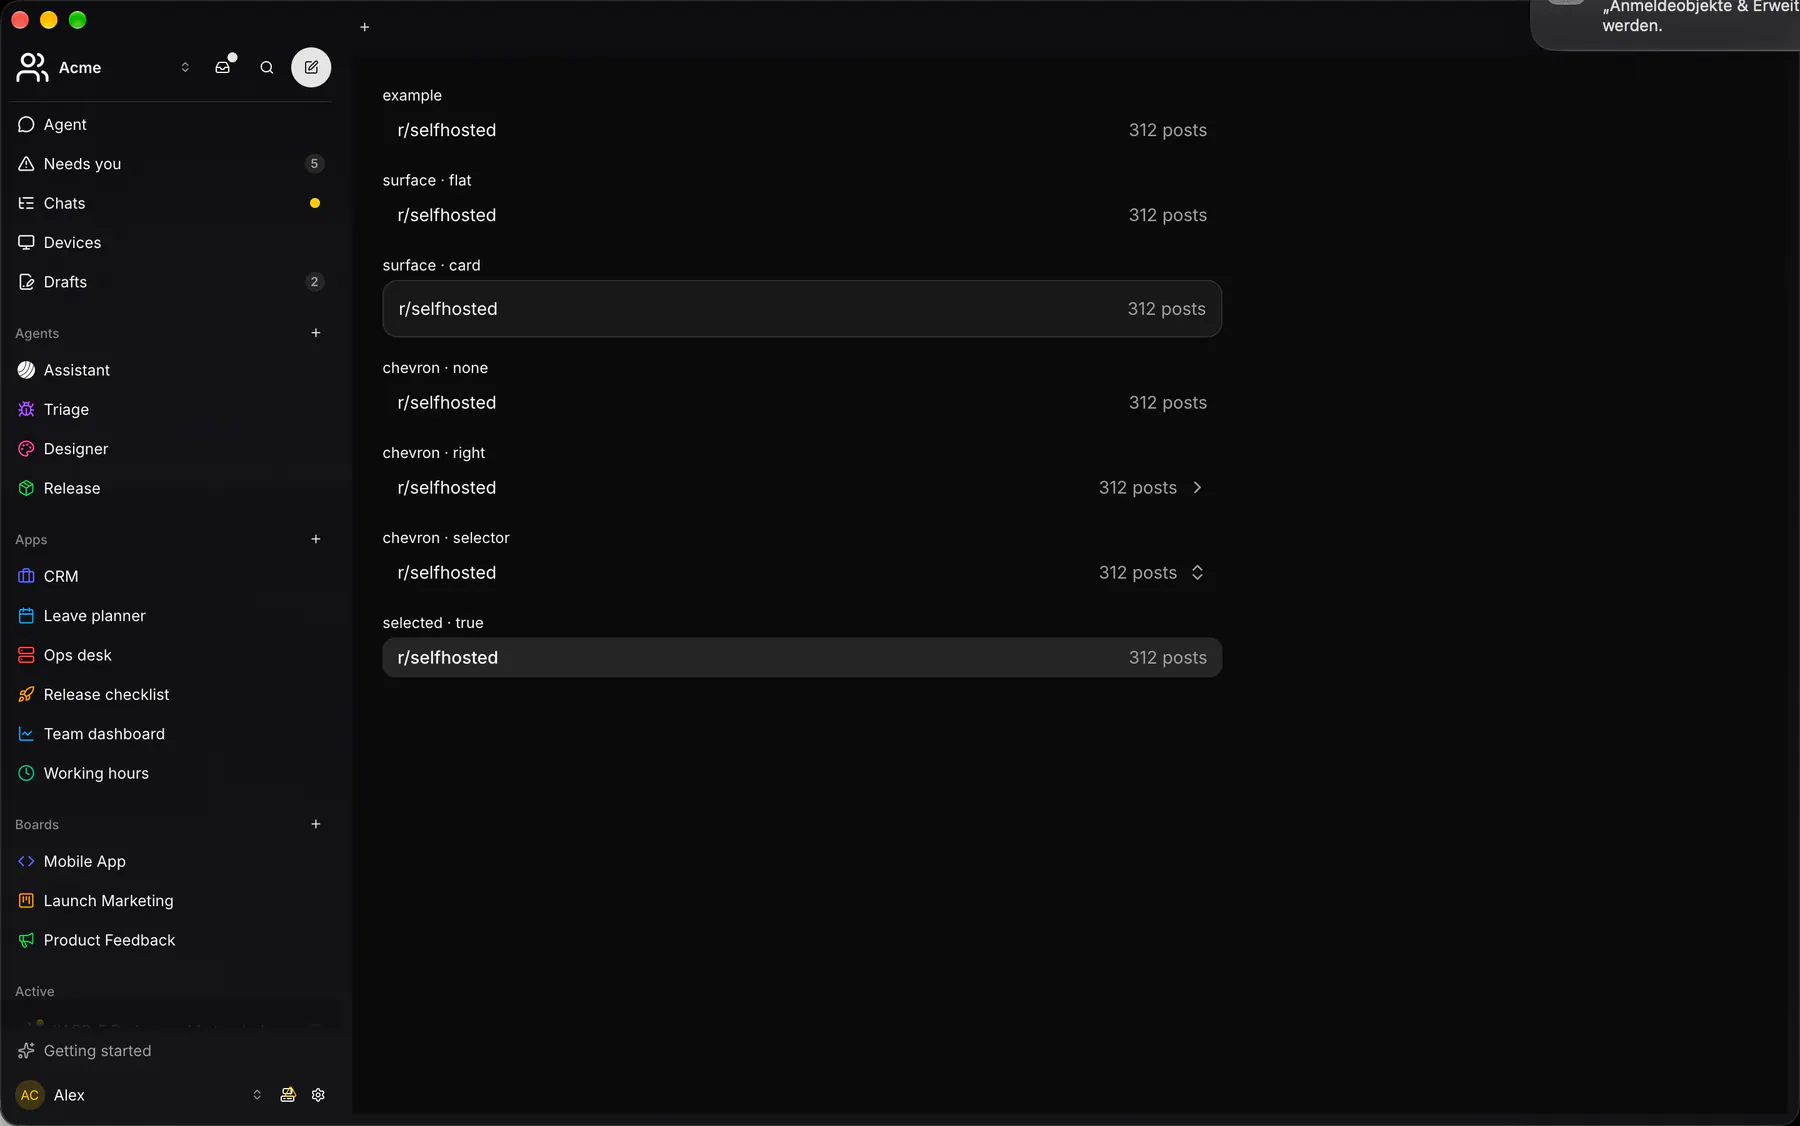
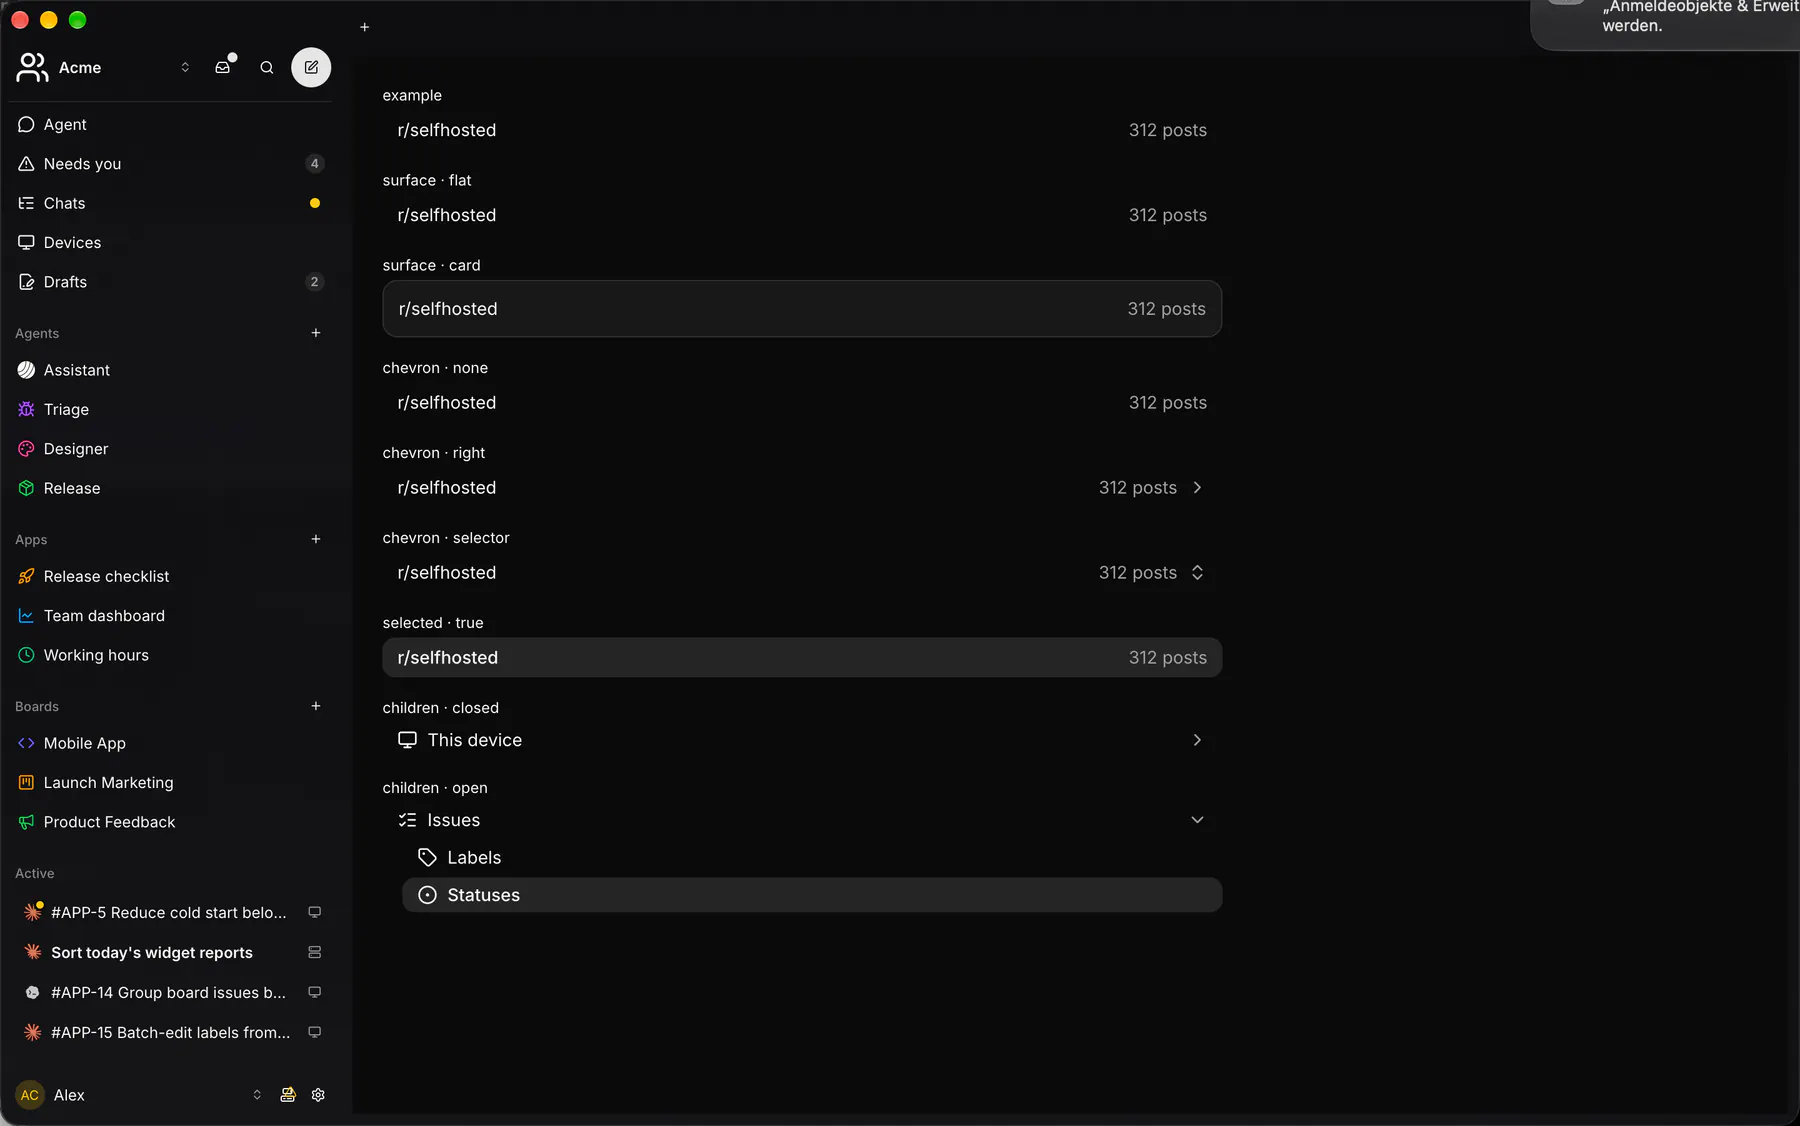
VAPP-284: Row shots ×desktop/iOS/Android (the foldable group closed + open), Compose example maps the settings group glyphs
The Compose example host lacked settings-issues / settings-labels /
settings-tools / ui-folder-open, so the fold specimen painted the
placeholder circle where web draws list-checks and tag.

diff --git a/packages/exponential-ui-compose/example/src/main/kotlin/at/exponential/ui/kitchensink/SinkIcons.kt b/packages/exponential-ui-compose/example/src/main/kotlin/at/exponential/ui/kitchensink/SinkIcons.kt
@@ -82,6 +82,7 @@ private val lFolder = outline("folder", "M20 20a2 2 0 0 0 2-2V8a2 2 0 0 0-2-2h-7
 private val lFolderGit2 = outline("folder-git-2", "M9 20H4a2 2 0 0 1-2-2V5a2 2 0 0 1 2-2h3.9a2 2 0 0 1 1.69.9l.81 1.2a2 2 0 0 0 1.67.9H20a2 2 0 0 1 2 2v5", "M11 12A2 2 0 1 0 15 12A2 2 0 1 0 11 12Z", "M18 19c-2.8 0-5-2.2-5-5v8", "M18 19A2 2 0 1 0 22 19A2 2 0 1 0 18 19Z")
 private val lFolderInput = outline("folder-input", "M2 9V5a2 2 0 0 1 2-2h3.9a2 2 0 0 1 1.69.9l.81 1.2a2 2 0 0 0 1.67.9H20a2 2 0 0 1 2 2v10a2 2 0 0 1-2 2H4a2 2 0 0 1-2-2v-1", "M2 13h10", "m9 16 3-3-3-3")
 private val lFolderKanban = outline("folder-kanban", "M4 20h16a2 2 0 0 0 2-2V8a2 2 0 0 0-2-2h-7.93a2 2 0 0 1-1.66-.9l-.82-1.2A2 2 0 0 0 7.93 3H4a2 2 0 0 0-2 2v13c0 1.1.9 2 2 2Z", "M8 10v4", "M12 10v2", "M16 10v6")
+private val lFolderOpen = outline("folder-open", "m6 14 1.5-2.9A2 2 0 0 1 9.24 10H20a2 2 0 0 1 1.94 2.5l-1.54 6a2 2 0 0 1-1.95 1.5H4a2 2 0 0 1-2-2V5a2 2 0 0 1 2-2h3.9a2 2 0 0 1 1.69.9l.81 1.2a2 2 0 0 0 1.67.9H18a2 2 0 0 1 2 2v2")
 private val lFunnel = outline("funnel", "M10 20a1 1 0 0 0 .553.895l2 1A1 1 0 0 0 14 21v-7a2 2 0 0 1 .517-1.341L21.74 4.67A1 1 0 0 0 21 3H3a1 1 0 0 0-.742 1.67l7.225 7.989A2 2 0 0 1 10 14z")
 private val lGitBranch = outline("git-branch", "M6 3L6 15", "M15 6A3 3 0 1 0 21 6A3 3 0 1 0 15 6Z", "M3 18A3 3 0 1 0 9 18A3 3 0 1 0 3 18Z", "M18 9a9 9 0 0 1-9 9")
 private val lGitPullRequest = outline("git-pull-request", "M15 18A3 3 0 1 0 21 18A3 3 0 1 0 15 18Z", "M3 6A3 3 0 1 0 9 6A3 3 0 1 0 3 6Z", "M13 6h3a2 2 0 0 1 2 2v7", "M6 9L6 21")
@@ -99,6 +100,7 @@ private val lLayers = outline("layers", "M12.83 2.18a2 2 0 0 0-1.66 0L2.6 6.08a1
 private val lLightbulb = outline("lightbulb", "M15 14c.2-1 .7-1.7 1.5-2.5 1-.9 1.5-2.2 1.5-3.5A6 6 0 0 0 6 8c0 1 .2 2.2 1.5 3.5.7.7 1.3 1.5 1.5 2.5", "M9 18h6", "M10 22h4")
 private val lLink = outline("link", "M10 13a5 5 0 0 0 7.54.54l3-3a5 5 0 0 0-7.07-7.07l-1.72 1.71", "M14 11a5 5 0 0 0-7.54-.54l-3 3a5 5 0 0 0 7.07 7.07l1.71-1.71")
 private val lList = outline("list", "M3 5h.01", "M3 12h.01", "M3 19h.01", "M8 5h13", "M8 12h13", "M8 19h13")
+private val lListChecks = outline("list-checks", "M13 5h8", "M13 12h8", "M13 19h8", "m3 17 2 2 4-4", "m3 7 2 2 4-4")
 private val lListMusic = outline("list-music", "M16 5H3", "M11 12H3", "M11 19H3", "M21 16V5", "M15 16A3 3 0 1 0 21 16A3 3 0 1 0 15 16Z")
 private val lLoader = outline("loader", "M12 2v4", "m16.2 7.8 2.9-2.9", "M18 12h4", "m16.2 16.2 2.9 2.9", "M12 18v4", "m4.9 19.1 2.9-2.9", "M2 12h4", "m4.9 4.9 2.9 2.9")
 private val lLogOut = outline("log-out", "m16 17 5-5-5-5", "M21 12H9", "M9 21H5a2 2 0 0 1-2-2V5a2 2 0 0 1 2-2h4")
@@ -139,6 +141,8 @@ private val lSlidersHorizontal = outline("sliders-horizontal", "M10 5H3", "M12 1
 private val lSprout = outline("sprout", "M14 9.536V7a4 4 0 0 1 4-4h1.5a.5.5 0 0 1 .5.5V5a4 4 0 0 1-4 4 4 4 0 0 0-4 4c0 2 1 3 1 5a5 5 0 0 1-1 3", "M4 9a5 5 0 0 1 8 4 5 5 0 0 1-8-4", "M5 21h14")
 private val lSquare = outline("square", "M5 3H19A2 2 0 0 1 21 5V19A2 2 0 0 1 19 21H5A2 2 0 0 1 3 19V5A2 2 0 0 1 5 3Z")
 private val lSquareKanban = outline("square-kanban", "M5 3H19A2 2 0 0 1 21 5V19A2 2 0 0 1 19 21H5A2 2 0 0 1 3 19V5A2 2 0 0 1 5 3Z", "M8 7v7", "M12 7v4", "M16 7v9")
+private val lSquareTerminal = outline("square-terminal", "m7 11 2-2-2-2", "M11 13h4", "M5 3H19A2 2 0 0 1 21 5V19A2 2 0 0 1 19 21H5A2 2 0 0 1 3 19V5A2 2 0 0 1 5 3Z")
+private val lTag = outline("tag", "M12.586 2.586A2 2 0 0 0 11.172 2H4a2 2 0 0 0-2 2v7.172a2 2 0 0 0 .586 1.414l8.704 8.704a2.426 2.426 0 0 0 3.42 0l6.58-6.58a2.426 2.426 0 0 0 0-3.42z", "M7 7.5A0.5 0.5 0 1 0 8 7.5A0.5 0.5 0 1 0 7 7.5Z")
 private val lStar = outline("star", "M11.525 2.295a.53.53 0 0 1 .95 0l2.31 4.679a2.123 2.123 0 0 0 1.595 1.16l5.166.756a.53.53 0 0 1 .294.904l-3.736 3.638a2.123 2.123 0 0 0-.611 1.878l.882 5.14a.53.53 0 0 1-.771.56l-4.618-2.428a2.122 2.122 0 0 0-1.973 0L6.396 21.01a.53.53 0 0 1-.77-.56l.881-5.139a2.122 2.122 0 0 0-.611-1.879L2.16 9.795a.53.53 0 0 1 .294-.906l5.165-.755a2.122 2.122 0 0 0 1.597-1.16z")
 private val lTerminal = outline("terminal", "M12 19h8", "m4 17 6-6-6-6")
 private val lTrash2 = outline("trash-2", "M10 11v6", "M14 11v6", "M19 6v14a2 2 0 0 1-2 2H7a2 2 0 0 1-2-2V6", "M3 6h18", "M8 6V4a2 2 0 0 1 2-2h4a2 2 0 0 1 2 2v2")
@@ -283,7 +287,10 @@ val sinkIcons: Map<String, ImageVector> = mapOf(
     "search-x" to lSearchX,
     "send" to lSend,
     "settings" to lSettings,
+    "settings-issues" to lListChecks,
+    "settings-labels" to lTag,
     "settings-statuses" to lCircleDot,
+    "settings-tools" to lSquareTerminal,
     "shield-check" to lShieldCheck,
     "signal-high" to lSignalHigh,
     "skip-back" to lSkipBack,
@@ -327,6 +334,7 @@ val sinkIcons: Map<String, ImageVector> = mapOf(
     "ui-external-link" to lExternalLink,
     "ui-file" to lFile,
     "ui-folder" to lFolder,
+    "ui-folder-open" to lFolderOpen,
     "ui-hold" to lHand,
     "ui-icon-placeholder" to lCircleDashed,
     "ui-info" to lInfo,
